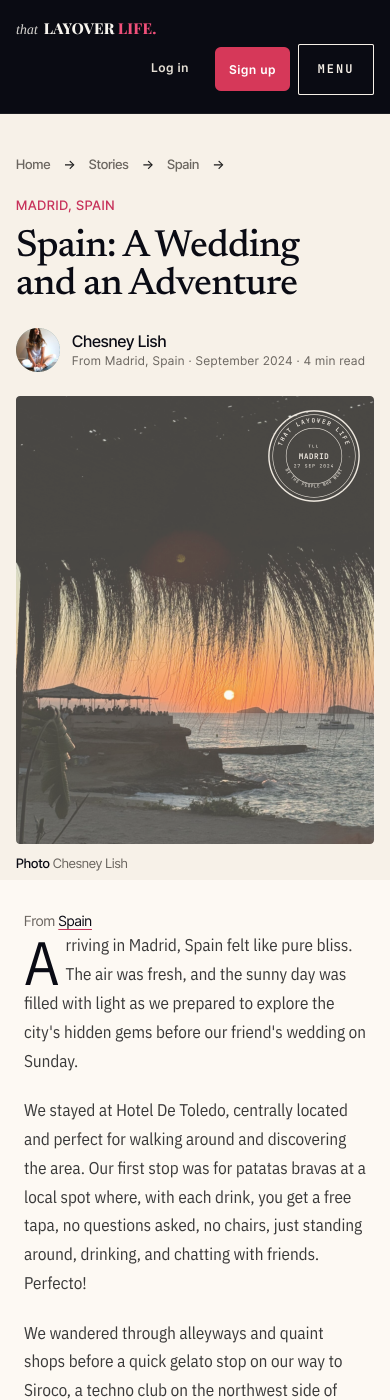
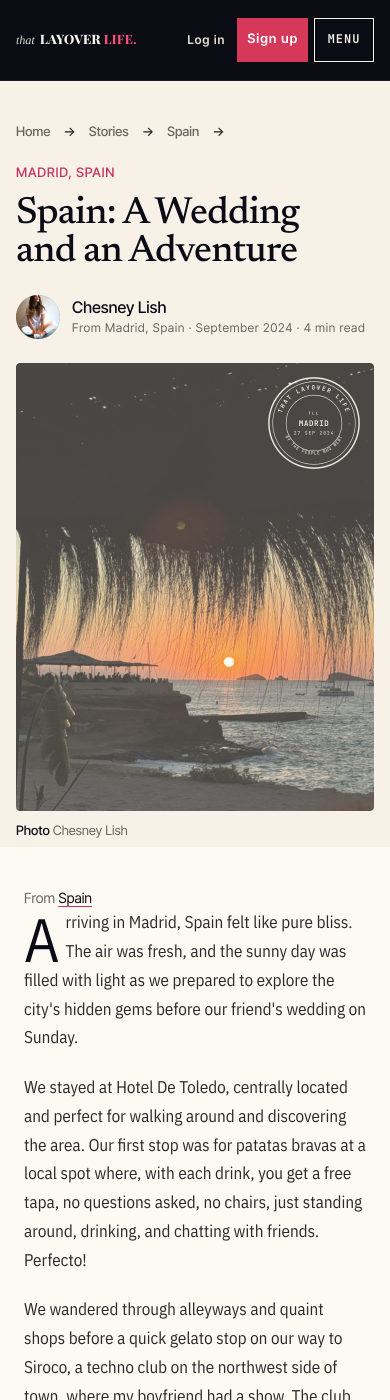
Site layers v5: v4 plus the magazine story layer, guarded to /stories/{slug} (font link in the head, style at the end of the body); tested on the stand-in as a header script, axe clean at 390 and 1280
Claude-Session: https://claude.ai/code/session_01GTTttGvX2VTwovAB2g1cLf

Changed region(s): [[0.0, 0.0, 1.0, 1.0]]

diff --git a/src/site-layers/tll-site-layers-v5.js b/src/site-layers/tll-site-layers-v5.js
@@ -1,0 +1,129 @@
+/* tll-site-layers-v5: one site script, so the site stays within Webflow's 15-script limit. Built by src/site-layers/build-site-layers-v5.py from:
+   style  src/site-layers/tll-nav-phone-v1.html (phone header)
+   style  src/site-layers/tll-contrast-v1.html (contrast)
+   style  src/site-layers/tll-note-phone-v1.html (round note button on phones)
+   style  src/site-layers/tll-photos-tap-v1.html (/share-photos drop zone tap on iPhones)
+   style  src/site-layers/tll-home-coords-v1.html (home photo coordinates inside the screen on phones)
+   style  src/site-layers/tll-footer-wordmark-v1.html (footer wordmark matches the header)
+   style  src/site-layers/tll-tap-colors-v1.html (/account Stories tab: ink text and a rose underline on hover and tap, no rose or teal text)
+   script src/components/member-bar/tll-account-hash-tabs-v1.js (member bar SETTINGS and CONTRIBUTIONS open their /account tab)
+   script src/site-layers/tll-note-typing-v1.js (note button steps aside while typing)
+   script src/components/edit-profile-fixes/tll-ep-country-v1.js (/edit-profile country field reads "Portland, Oregon, USA"; pen name note copy)
+   script src/site-layers/tll-footer-wordmark-v1.js (footer wordmark text)
+   story  src/design/magazine-2026-10/story-build/tll-mag-story-v1.html (the magazine story page: Newsreader, the byline in the head, the stamp on the photo; /stories/{slug} only)
+   No data-ms-* element is touched. */
+(function(){var L=[["tll-nav-phone-v1", "/* 26 Oct 2026: one button shape in the header on phones (Nancy's 23 Oct critique, point 1; prototype 3.4 header).\n   Square corners and one 44px height for Sign up, the account button and MENU, and a single row from 360px up (320px phones wrap to two tidy rows).\n   Only the links are restyled. No data-ms-* element is touched (the round avatar letter stays as Memberstack sets it). */\n@media (max-width:767px){\nbody .tll-nav-v1 .tll-nav-main{padding:6px 0 !important}\nbody .tll-nav-v1 .tll-nav-inner{align-items:center !important;column-gap:8px !important}\nbody .tll-nav-v1 .tll-nav-logo{flex:0 1 auto;min-width:0}\nbody .tll-nav-v1 .tll-nav-cta-row{margin-left:auto !important;gap:6px !important;align-items:center !important}\nbody .tll-nav-v1 .tll-nav-signin{min-height:44px !important;display:inline-flex !important;align-items:center !important;padding:0 4px !important;margin-right:-8px !important}\nbody .tll-nav-v1 .tll-nav-signup,body .tll-nav-v1 .tll-nav-account-link,body .tll-nav-v1 .tllmm-btn{box-sizing:border-box !important;height:44px !important;min-height:44px !important;border-radius:0 !important;display:inline-flex !important;align-items:center !important;justify-content:center !important}\nbody .tll-nav-v1 .tll-nav-signup{padding:0 14px !important;font-size:13px !important}\nbody .tll-nav-v1 .tll-nav-account-link{padding:0 12px 0 8px !important;border:1.5px solid #F7F1E8 !important;gap:8px !important}\nbody .tll-nav-v1 .tllmm-btn{padding:0 12px !important;min-width:68px !important;border:1.5px solid #F7F1E8 !important;font-size:12px !important;letter-spacing:2px !important}\n}\n@media (max-width:399px){\nbody .tll-nav-v1 .tll-nav-logo{zoom:.86}\nbody .tll-nav-v1 .tll-nav-signup{padding:0 10px !important}\nbody .tll-nav-v1 .tllmm-btn{padding:0 8px !important;min-width:60px !important;letter-spacing:1px !important}\n}\n"], ["tll-contrast-v1", "/* 26 Oct 2026: three text-contrast failures found by an axe check (WCAG AA needs 4.5:1 for small text).\n   1. Header \"Sign up\" and \"Share your story\": cream or white on #F0507A (3.07 and 3.42). Now white on #D63859 (4.6), the\n      look most pages already had; only the home page on desktop used the lighter rose.\n   2. /stories \"Share your story\" button (.tll-cta-rose): cream on teal #00A9A4 (2.59). Now white on #D63859 (4.6).\n   3. Rose words on light backgrounds (.tll-text-rose, #F0507A on cream, 3.07). Now #C8325B (4.64), the site rule for rose\n      text on light. Rose on dark sections keeps the bright #F0507A. Links only; no data-ms-* element is touched. */\nbody .tll-nav-v1 a.tll-nav-signup,body .tll-nav-v1 a.tll-nav-pen-cta{background-color:#D63859 !important;color:#FFFFFF !important}\nbody .tll-nav-v1 a.tll-nav-signup:hover,body .tll-nav-v1 a.tll-nav-pen-cta:hover{background-color:#C8325B !important;color:#FFFFFF !important}\nbody a.tll-cta-rose{background-color:#D63859 !important;color:#FFFFFF !important}\nbody a.tll-cta-rose:hover{background-color:#C8325B !important}\nbody .tll-text-rose{color:#C8325B}\nbody :is(.tll-section-dark,.tll-nav-v1,footer,.tll-footer-v1,.tll-story-hero,.tlldx-hero,.tllpx-hero,.tllec-hero,.tll-support-hero,.tll-auth-section,[data-h3-hero]) .tll-text-rose{color:#F0507A}\n"], ["tll-note-phone-v1", "/* 26 Oct 2026: the floating \"Tell the editor\" pill covered page content on phones (the /account tab strip, the Languages\n   field on /edit-profile). Prototype 3.4 already set the answer: under 960px the pill is a 44px round button with the dot\n   only (the words stay for screen readers). It also steps aside while a form field outside the note has focus. */\n@media (max-width:959px){\nbody #tll-note .tll-note-pill{font-size:0 !important;gap:0 !important;padding:0 !important;width:44px !important;height:44px !important;min-height:44px !important;justify-content:center !important;letter-spacing:0 !important}\nbody #tll-note .tll-note-pill::before{width:10px !important;height:10px !important}\n}\nhtml.tll-typing #tll-note:not([data-open=\"true\"]){display:none !important}\n"], ["tll-photos-tap-v1", "/* 26 Oct 2026, Nancy on an iPhone: \"Tap to add photo doesn't work\" on /share-photos. The file input sat hidden inside the drop\n   zone (1px, clipped, pointer-events none) and relied on the label passing the tap on, which iPhone browsers do not always do.\n   Now the input itself covers the whole drop zone, fully transparent, so a tap lands on the real file input on every phone.\n   Drag and drop and the keyboard still work; the focus ring shows on the drop zone. */\nbody [data-tll-form=share-photos] fieldset.tll-pen-fieldset label.tll-photos-drop{position:relative !important}\nbody [data-tll-form=share-photos] fieldset.tll-pen-fieldset label.tll-photos-drop input.tll-photos-drop-input{position:absolute !important;inset:0 !important;width:100% !important;height:100% !important;min-height:0 !important;margin:0 !important;padding:0 !important;border:0 !important;opacity:0 !important;clip-path:none !important;overflow:hidden !important;cursor:pointer !important;pointer-events:auto !important;z-index:2 !important;font-size:16px !important;display:block !important}\nbody [data-tll-form=share-photos] label.tll-photos-drop:has(> input.tll-photos-drop-input:focus-visible){outline:3px solid #F0507A;outline-offset:2px}\n"], ["tll-home-coords-v1", "/* 26 Oct 2026, Nancy: the coordinates on the home photo were half off the screen on her phone. The 20 Oct coordinates embed\n   (h3-hero-coords-v3) sets them to position:static under 900px; the phone hero layer moves them top-right but never reset that,\n   so they sat flush against the right edge and the last letters were cut. Top-right, 16px in from the edges, on phones. */\n@media (max-width:767px){\nbody:not(.tll-none) [data-h3-hero] .h3-hero-coords{position:absolute !important;margin:0 !important;top:16px !important;right:16px !important;left:auto !important;max-width:calc(100% - 32px) !important;white-space:nowrap !important;overflow:visible !important;text-overflow:clip !important;text-align:right !important}\n}\n"], ["tll-footer-wordmark-v1", "/* 26 Oct 2026, Nancy: \"What's going on with the logo\" (site footer). The footer link was plain text \"that LAYOVER LIFE\" in\n   generic classes: a big sans \"that\", a small rose \"LAYOVER LIFE\". Now it is the header wordmark at footer size:\n   italic serif \"that\", Playfair \"LAYOVER\", rose \"LIFE.\". The words are rebuilt by tll-footer-wordmark-v1.js. */\nbody footer a.tll-fwm{display:inline-flex !important;align-items:baseline !important;gap:6px !important;white-space:nowrap !important;text-decoration:none !important;color:#F8F2E6 !important;font-size:inherit !important;line-height:1 !important;margin:0 0 4px !important}\nbody footer a.tll-fwm .tll-fwm-that{font:italic 400 18px/1 'DM Serif Display','Playfair Display',Georgia,serif !important;opacity:.85;color:#F8F2E6 !important;letter-spacing:0 !important;text-transform:none !important}\nbody footer a.tll-fwm .tll-fwm-block{font:800 24px/1 'Playfair Display',Georgia,serif !important;letter-spacing:.01em !important;color:#F8F2E6 !important;text-transform:uppercase !important}\nbody footer a.tll-fwm .tll-fwm-life{color:#F0507A !important;font:inherit !important}\n"], ["tll-tap-colors-v1", "/* 26 Oct 2026, Nancy on the /account Stories tab: \"Not a fan of the light blue on hover click.\"\n   The row title's hover was bright rose (#F0507A) on cream, which fails contrast (3.07:1). The site's contrast layer then recolors it\n   from its palette, and the result on an iPhone long-press was a pale teal. The magazine rule instead: text stays ink, the underline\n   goes rose (#C8325B on light). Same for the Edit and Share links in that tab. No element or script changes; CSS only, after the\n   script's own styles by specificity. */\nbody .tms-row .tms-t:hover,body .tms-row .tms-t:focus-visible,body .tms-row:hover .tms-t,body .tms-row:active .tms-t{color:#0A0B14 !important;text-decoration:underline;text-decoration-color:#C8325B;text-decoration-thickness:2px;text-underline-offset:4px}\nbody .tms-act:hover,body .tms-act:focus-visible{color:#0A0B14 !important;text-decoration-color:#C8325B;text-decoration-thickness:2px;text-underline-offset:3px}\nbody .tms-act:focus-visible{outline-color:#C8325B}\nbody .tms-row:hover,body .tms-row:active{border-color:#0A0B14 !important}\n@media(hover:none){body .tms-row:hover .tms-t,body .tms-row .tms-t:hover{text-decoration-color:transparent}body .tms-row:active .tms-t{text-decoration-color:#C8325B}}\n"]];var h=document.head||document.documentElement;for(var i=0;i<L.length;i++){if(document.getElementById(L[i][0]))continue;var s=document.createElement('style');s.id=L[i][0];s.textContent=L[i][1];h.appendChild(s);}})();
+/* tll-account-hash-tabs-v1 (26 Oct 2026). On /account, a tap on a same-page link such as the member bar's SETTINGS
+   (/account#settings) or CONTRIBUTIONS (/account#stories) opens that account tab.
+   Why: Webflow's smooth scroll catches same-page # links, scrolls to the target and changes the address with pushState,
+   which fires no hashchange, so the account tabs never heard the tap and the target section stayed hidden.
+   This listener runs first (capture phase) and only acts when a matching account tab button exists (#a3-tab-<name>). */
+(function(){
+  if(window.__tllHashTabs) return; window.__tllHashTabs=1;
+  function same(a){ return a.host===location.host && a.pathname.replace(/\/$/,'')===location.pathname.replace(/\/$/,''); }
+  document.addEventListener('click',function(e){
+    if(e.defaultPrevented||e.button>0||e.metaKey||e.ctrlKey||e.shiftKey||e.altKey) return;
+    var a=e.target&&e.target.closest&&e.target.closest('a[href*="#"]'); if(!a||!a.hash||!same(a)) return;
+    var tab=document.getElementById('a3-tab-'+decodeURIComponent(a.hash.slice(1))); if(!tab) return;
+    e.preventDefault(); e.stopPropagation();
+    tab.click();
+  },true);
+})();
+
+/* tll-note-typing-v1 (26 Oct 2026): while a form field outside the "Tell the editor" note has focus, html gets
+   .tll-typing and the pill steps aside, so it never sits on a field above the phone keyboard. */
+(function(){
+  if(window.__tllTyping) return; window.__tllTyping=1;
+  var H=document.documentElement, F='input:not([type=hidden]):not([type=submit]):not([type=button]):not([type=checkbox]):not([type=radio]),textarea,select,[contenteditable="true"]';
+  function on(t){ return t&&t.matches&&t.matches(F)&&!(t.closest&&t.closest('#tll-note')); }
+  document.addEventListener('focusin',function(e){ if(on(e.target)) H.classList.add('tll-typing'); });
+  document.addEventListener('focusout',function(){ setTimeout(function(){ if(!on(document.activeElement)) H.classList.remove('tll-typing'); },0); });
+})();
+
+/* tll-ep-country-v1 (26 Oct 2026). Edit profile, "From, and has lived in": accept the way people write places.
+   Nancy typed "Portland, Oregon, USA" and got "No country by that name". The matcher took only an exact country name,
+   a two letter code or the start of a name. Now it reads each comma part from the end, knows common short forms
+   (USA, UK, England, Holland, UAE ...) and US state names, then falls back to the old matcher. Exact country names win
+   first, so "Georgia" stays the country. Same stored value as before: two letter codes in from-and-lived-in. */
+(function(){
+  if(!/^\/edit-profile/.test(location.pathname)) return;
+  var ALIAS={'usa':'us','u.s.a.':'us','u.s.a':'us','u.s.':'us','u.s':'us','america':'us','united states of america':'us','the united states':'us',
+    'uk':'gb','u.k.':'gb','u.k':'gb','britain':'gb','great britain':'gb','england':'gb','scotland':'gb','wales':'gb','northern ireland':'gb','the united kingdom':'gb',
+    'holland':'nl','the netherlands':'nl','uae':'ae','u.a.e.':'ae','emirates':'ae','the emirates':'ae','korea':'kr','republic of korea':'kr',
+    'czech republic':'cz','burma':'mm','swaziland':'sz','macedonia':'mk','east timor':'tl','cabo verde':'cv',"cote d'ivoire":'ci',"côte d'ivoire":'ci',
+    'vatican':'va','holy see':'va','turkiye':'tr','türkiye':'tr','russian federation':'ru','drc':'cd','democratic republic of the congo':'cd','republic of ireland':'ie'};
+  var ST={}; "alabama|alaska|arizona|arkansas|california|colorado|connecticut|delaware|florida|hawaii|idaho|illinois|indiana|iowa|kansas|kentucky|louisiana|maine|maryland|massachusetts|michigan|minnesota|mississippi|missouri|montana|nebraska|nevada|new hampshire|new jersey|new mexico|new york|north carolina|north dakota|ohio|oklahoma|oregon|pennsylvania|rhode island|south carolina|south dakota|tennessee|texas|utah|vermont|virginia|washington|west virginia|wisconsin|wyoming|washington dc|washington d.c.|district of columbia|puerto rico".split('|').forEach(function(x){ ST[x]=1; }); /* US states (Georgia is left to the country) */
+  function norm(s){ return String(s||'').trim().toLowerCase().replace(/\s+/g,' '); }
+  function patch(){
+    var E=window.TLLEP; if(!E||!E.ccode||E.ccode.__tll||!E.C) return false;
+    var base=E.ccode;
+    function exact(p){ for(var i=0;i<E.C.length;i++){ if(E.C[i].c===p||E.C[i].n.toLowerCase()===p) return E.C[i].c; } return ''; }
+    var f=function(q){
+      var s=norm(q); if(!s) return '';
+      var parts=s.split(/\s*[,;\/]\s*|\s+-\s+/).filter(Boolean);
+      for(var i=parts.length-1;i>=0;i--){ var p=parts[i]; var c=exact(p)||ALIAS[p]||(ST[p]?'us':''); if(c) return c; }
+      return base(q) || (parts.length>1 ? base(parts[parts.length-1]) : '');
+    };
+    f.__tll=1; E.ccode=f; return true;
+  }
+  if(!patch()){ var n=0, iv=setInterval(function(){ if(patch()||++n>40) clearInterval(iv); },250); document.addEventListener('DOMContentLoaded',patch); }
+  /* Copy on the same page: the pen name note used a banned phrase; the country hint now says a place works. */
+  function copy(){
+    var pen=document.querySelector('[data-ep-penwrap] .ep-note');
+    if(pen&&/real name stays on file/i.test(pen.textContent)) pen.textContent='Only the editor sees your full name. Readers see your pen name, and every byline is still a person.';
+    var fn=document.querySelector('[data-ep-flagnote]');
+    if(fn&&!fn.hasAttribute('data-hold')&&/^Type a country and press Enter/.test(fn.textContent)) fn.textContent='Type a country, or a place with its country, and press Enter. Up to five.';
+  }
+  if(document.readyState!=='loading') copy(); else document.addEventListener('DOMContentLoaded',copy);
+})();
+
+/* tll-footer-wordmark-v1 (26 Oct 2026): the site footer's home link "that LAYOVER LIFE" becomes the header wordmark
+   (that + LAYOVER + LIFE.). Text only; the link, its href and its place stay. Styles: tll-footer-wordmark-v1.html. */
+(function(){
+  function run(){
+    [].forEach.call(document.querySelectorAll('footer a[href="/"]'),function(a){
+      if(a.classList.contains('tll-fwm')) return;
+      var t=a.textContent.replace(/\s+/g,' ').trim(); if(!/^that ?layover life\.?$/i.test(t)) return;
+      a.classList.add('tll-fwm'); a.setAttribute('aria-label','That Layover Life, home');
+      a.innerHTML='<span class="tll-fwm-that">that</span><span class="tll-fwm-block">LAYOVER <span class="tll-fwm-life">LIFE.</span></span>';
+    });
+  }
+  if(document.readyState!=='loading') run(); else document.addEventListener('DOMContentLoaded',run);
+})();
+
+(function(){if(!/^\/stories\/[^/]+\/?$/.test(location.pathname))return;if(document.getElementById('tll-mag-story-v1'))return;
+var f=document.createElement('link');f.rel='stylesheet';f.href="https://fonts.googleapis.com/css2?family=Newsreader:ital,opsz,wght@0,6..72,400..600;1,6..72,400..600&family=Inter+Tight:wght@400;500;600&display=swap";(document.head||document.documentElement).appendChild(f);
+function place(){var s=document.createElement('style');s.id='tll-mag-story-v1';s.textContent="/* The magazine story page, layer v1 (26 Oct 2026). handoff/CREATIVE-DIRECTION-2026-10-26.md, direction A with the stamp, Newsreader.\n   Loads after tll-v9-j13-v1 (head) and before tll-st3-story-v1 (footer) and overrides both by specificity and !important.\n   Restyles only: no element is removed, no binding changes, no data-* hook moves except the two the script makes (the hero caption\n   under the photo and the author row into the head). Rose means \"you can press this\". One gutter, one radius, one measure. */\n:root{--st3-f-head:'Newsreader',Georgia,serif;--st3-f-body:'Inter Tight',system-ui,sans-serif;\n  --mg-ink:#0A0B14;--mg-cream:#F7F1E8;--mg-paper:#FDF9F3;--mg-line:#D8D0C4;--mg-text:#2a2a2a;--mg-muted:#6B6660;--mg-rose:#C8325B;--mg-teal:#067A79;\n  --mg-head:'Newsreader',Georgia,serif;--mg-text-f:'Inter Tight',system-ui,sans-serif;--mg-m:16px;--mg-r:4px}\n@media(min-width:900px){:root{--mg-m:40px}}\n.tll-story-article{font-family:var(--mg-text-f)}\n\n/* the head: words first, then the photo, then its caption */\n.tll-story-hero{display:flex !important;flex-direction:column !important;align-items:stretch !important;min-height:0 !important;background:var(--mg-cream) !important;padding:0 0 8px !important;overflow:visible !important}\n.tll-story-hero-overlay{order:-1;position:static !important;min-height:0 !important;background:none !important;display:block !important;padding:0 !important}\n.tll-story-hero-content{display:grid;grid-template-columns:minmax(0,1fr);row-gap:0;max-width:1280px !important;padding:28px var(--mg-m) 24px !important}\n.tll-story-hero-content>*{grid-column:1;min-width:0}\n.tll-mg-fig{position:relative;width:calc(100% - 2*var(--mg-m));max-width:1200px;margin:0 auto}\n.tll-story-hero-img{position:relative !important;inset:auto !important;display:block;width:100% !important;height:auto !important;aspect-ratio:4/5;object-fit:cover !important;margin:0 !important;border-radius:var(--mg-r);transform:none !important}\n.tll-mg-cap{display:flex;justify-content:space-between;gap:16px;margin:10px 0 0;font:400 13px/1.4 var(--mg-text-f);color:var(--mg-muted)}\n.tll-mg-cap b{font-weight:500;color:var(--mg-ink)}\n.tll-mg-cap:empty{display:none}\n.tll-story-hero [data-tll-breadcrumb]{display:flex;flex-wrap:wrap;align-items:center;font:500 13px/1.4 var(--mg-text-f) !important;color:var(--mg-muted) !important;margin:0 0 10px !important;letter-spacing:0 !important;text-transform:none !important}\n.tll-story-hero [data-tll-breadcrumb] a{display:inline-flex;align-items:center;min-height:44px;color:var(--mg-muted) !important;text-decoration:none}\n.tll-story-hero [data-tll-breadcrumb] span{color:var(--mg-line) !important;margin:0 6px}\n.tll-story-hero .tll-story-meta-row{display:flex !important;flex-wrap:wrap;gap:0 8px;margin:0 !important;background:none !important;padding:0 !important;border-radius:0 !important;backdrop-filter:none !important}\n.tll-story-hero .tll-story-meta-row .tll-eyebrow-teal{font:500 13px/1.4 var(--mg-text-f) !important;letter-spacing:.06em !important;text-transform:uppercase !important;color:var(--mg-rose) !important;background:none !important;border:0 !important;padding:0 !important;margin:0 !important;border-radius:0 !important}\n.tll-story-hero .tll-story-meta-row .tll-story-meta-divider:has(+ .w-dyn-bind-empty),.tll-story-hero .tll-story-meta-row .tll-story-meta-divider:has(+ .tll-story-reading-time){display:none !important}\n.tll-story-hero .tll-story-meta-row .tll-eyebrow-teal img{display:none !important}\n.tll-story-hero .tll-story-meta-divider{color:var(--mg-rose) !important;font-size:13px}\n.tll-story-hero .tll-story-reading-time{display:none !important}\nh1.tll-story-title{font-family:var(--mg-head) !important;font-weight:500 !important;font-size:clamp(38px,9.5vw,52px) !important;line-height:1 !important;letter-spacing:-.02em !important;color:var(--mg-ink) !important;text-shadow:none !important;margin:14px 0 0 !important;text-wrap:balance;max-width:none !important}\n.tll-story-excerpt{font-family:var(--mg-head) !important;font-weight:400 !important;font-size:21px !important;line-height:1.4 !important;color:var(--mg-text) !important;max-width:44ch !important;margin:18px 0 0 !important;font-variation-settings:\"opsz\" 24}\n.tll-story-hero .tll-story-author-top{display:none !important}\n.tll-story-hero [data-tll-hero-caption]{display:none !important}\n/* the byline, moved into the head by the script */\n.tll-story-hero-content .st3-author{margin:24px 0 0 !important;padding:0 !important;border:0 !important}\n.tll-story-hero-content .st3-author-avatar{width:44px;height:44px;border:0}\n.tll-story-hero-content .st3-author-name{font:500 16px/1.3 var(--mg-text-f);color:var(--mg-ink)}\n.tll-story-hero-content .st3-author-name::after{content:none}\n.tll-story-hero-content .st3-author-filed{font:400 14px/1.4 var(--mg-text-f);letter-spacing:0;text-transform:none;color:var(--mg-muted);margin-top:2px}\n.tll-story-hero-content .st3-author-filed [data-st3-loc]{text-transform:capitalize}\n.tll-mg-stamp{position:absolute;right:12px;top:12px;width:96px;color:var(--mg-cream);opacity:.95}\n.tll-mg-stamp svg{display:block;width:100%;height:auto}\n@media(min-width:900px){\n  .tll-story-hero-content{padding:48px var(--mg-m) 32px !important}\n  .tll-mg-stamp{width:150px;right:24px;top:24px}\n  h1.tll-story-title{font-size:clamp(52px,5.4vw,80px) !important;line-height:.98 !important;max-width:16ch !important}\n  .tll-story-excerpt{font-size:24px !important}\n  .tll-story-hero-img{aspect-ratio:3/2}\n}\n\n/* the reading column */\n.tll-story-body-section{padding-top:40px !important}\n.tll-story-body>.st3-from{font:400 14px/1.5 var(--mg-text-f);color:var(--mg-muted)}\n.tll-story-body>.st3-from a{color:var(--mg-ink);text-decoration:underline;text-decoration-color:var(--mg-rose);text-underline-offset:3px}\n.tll-story-body>.st3-lede{display:none !important}\n.tll-story-body>.w-richtext.tll-body{font-family:var(--mg-head) !important;font-size:19px !important;line-height:1.6 !important;color:var(--mg-text) !important;font-variation-settings:\"opsz\" 16}\n.tll-story-body>.w-richtext.tll-body p{margin:0 0 1.2em}\n.tll-story-body>.w-richtext.tll-body>p:first-child::first-letter{font-size:3.6em;line-height:.85;float:left;padding:.08em .1em 0 0;color:var(--mg-ink);font-weight:500}\n.tll-story-body>.w-richtext.tll-body h2,.tll-story-body>.w-richtext.tll-body h3{font-family:var(--mg-head);font-weight:500;font-size:28px;line-height:1.1;letter-spacing:-.015em;margin:1.4em 0 .5em;color:var(--mg-ink)}\n.tll-story-body>.w-richtext.tll-body h3{font-size:24px}\n.tll-story-body>.w-richtext.tll-body a{color:var(--mg-ink);text-decoration:underline;text-decoration-color:var(--mg-rose);text-decoration-thickness:2px;text-underline-offset:4px}\n.tll-story-body>.tll-story-pullquote{background:none !important;border:0 !important;border-left:3px solid var(--mg-rose) !important;border-radius:0 !important;padding:0 0 0 20px !important;margin:8px 0 32px !important;font-family:var(--mg-head) !important;font-style:normal !important;font-weight:400 !important;font-size:26px !important;line-height:1.25 !important;letter-spacing:-.01em;color:var(--mg-ink) !important}\n.tll-story-body>.tll-aeo-box{background:var(--mg-paper) !important;border:1px solid var(--mg-line) !important;border-radius:var(--mg-r) !important;padding:24px 20px !important}\n.tll-story-body>.tll-aeo-box .tll-aeo-eyebrow{font:500 24px/1.1 var(--mg-head) !important;letter-spacing:-.015em !important;text-transform:none !important;color:var(--mg-ink) !important;margin:0 0 6px !important}\n.tll-story-body>.tll-aeo-box .w-richtext{font-family:var(--mg-text-f) !important;font-size:16px !important;line-height:1.55 !important;color:var(--mg-text) !important}\n.tll-story-body>.tll-aeo-box .w-richtext p{margin:12px 0 0}\n.tll-story-body>.tll-aeo-box .w-richtext p strong{display:block;font-family:var(--mg-head);font-weight:500;font-size:19px;color:var(--mg-ink);letter-spacing:-.01em;margin-top:8px}\n[data-tll-links-card]>:first-child{font:500 12px/1.4 var(--mg-text-f) !important;letter-spacing:.06em !important;text-transform:uppercase !important;color:var(--mg-muted) !important}\n[data-tll-links-card] .w-richtext a{text-decoration-color:var(--mg-rose) !important}\n.tll-story-share-row .tll-story-share-label{font:500 12px/1.4 var(--mg-text-f) !important;letter-spacing:.06em;color:var(--mg-muted) !important}\n.tll-story-share-row .tll-story-share-link{font:500 14px/1 var(--mg-text-f) !important;border-radius:var(--mg-r) !important}\n\n/* after the story: same type, rose for taps */\n.tll-eyebrow-teal,.tll-eyebrow-rose,.tll-aeo-eyebrow,[data-tll-places] [data-tll-places-label],[data-tll-ledger] .tll-sl-title,[data-tll-ledger] .tll-ledger-k,.st3-tw-h,.st3-cc-badge,.st3-aff-k,.st3-trip-k,.st3-trip-by,.st3-author-filed,[data-tll-places] [data-tll-places-note]{font-family:var(--mg-text-f) !important;letter-spacing:.06em !important}\n.tll-story-aftermatter .tll-related-header .tll-eyebrow-teal,.tll-story-feedback .tll-eyebrow-teal{font:500 12px/1.4 var(--mg-text-f) !important;letter-spacing:.06em !important;color:var(--mg-muted) !important}\n.tll-story-aftermatter .tll-related-header h2{font-family:var(--mg-head) !important;font-weight:500 !important;letter-spacing:-.02em;font-size:clamp(30px,4vw,44px) !important;line-height:1.05 !important}\n.tll-story-aftermatter .tll-related-header h2 .tll-text-rose{color:inherit !important;font-style:italic}\n.tll-related-card{text-decoration:none !important;color:var(--mg-ink) !important}\n.tll-related-img-wrap{border-radius:var(--mg-r);overflow:hidden}\n.tll-related-loc{font:500 12px/1.4 var(--mg-text-f) !important;letter-spacing:.06em !important;text-transform:uppercase !important;color:var(--mg-muted) !important;margin-top:12px}\n.tll-related-headline{font-family:var(--mg-head) !important;font-weight:500 !important;font-size:22px !important;line-height:1.12 !important;letter-spacing:-.015em !important;color:var(--mg-ink) !important;margin:6px 0 0 !important}\n.tll-related-meta{font:400 13px/1.4 var(--mg-text-f) !important;color:var(--mg-muted) !important}\n.st3-cc-name{font-weight:500 !important;letter-spacing:-.02em !important}\n.st3-cc-avatar,.st3-author-avatar{border-color:var(--mg-line) !important}\n.st3-cc-link,.st3-author-name{color:var(--mg-ink) !important;text-decoration-color:var(--mg-rose) !important}\n[data-tll-story-cta]>div:first-child>div:first-child{font-weight:500 !important;letter-spacing:-.015em !important}\n.st3-trip-h,[data-tll-ledger] .tll-sl-title{font-weight:500 !important}\n[data-tll-ledger] .tll-ledger-note a,.tll-feedback-link{text-decoration-color:var(--mg-rose) !important}\n.tll-story-feedback p{font-family:var(--mg-text-f)}\n.tll-story-article a:focus-visible,.tll-story-article button:focus-visible{outline-color:var(--mg-rose) !important}\n";document.body.appendChild(s);}
+if(document.readyState==='loading')document.addEventListener('DOMContentLoaded',place);else place();
+/* Three small moves the CSS cannot make: the hero caption goes under the photo with the writer's credit, the author row (the bound
+   byline) moves into the head with the reading time, and the stamp is drawn from the byline location, the date and the pillar.
+   Nothing is deleted; the caption element is hidden, not removed. Runs once. */
+(function(){
+var SVG='<svg viewBox="0 0 200 200" aria-hidden="true" focusable="false"><defs><filter id="tll-mg-ink" x="-6%" y="-6%" width="112%" height="112%"><feTurbulence type="fractalNoise" baseFrequency=".9" numOctaves="2" seed="7" result="n"/><feDisplacementMap in="SourceGraphic" in2="n" scale="1.5" xChannelSelector="R" yChannelSelector="G"/></filter><path id="tll-mg-top" d="M30,100 A70,70 0 1,1 170,100"/><path id="tll-mg-bottom" d="M34,100 A66,66 0 0,0 166,100"/></defs><g filter="url(#tll-mg-ink)"><g fill="none" stroke="currentColor"><circle cx="100" cy="100" r="94" stroke-width="3"/><circle cx="100" cy="100" r="86" stroke-width="1.2"/><circle cx="100" cy="100" r="58" stroke-width="1.2"/></g><g fill="currentColor" font-family="\'JetBrains Mono\',ui-monospace,monospace" text-anchor="middle"><text font-size="12.5" font-weight="600" letter-spacing="3"><textPath href="#tll-mg-top" startOffset="50%">THAT LAYOVER LIFE</textPath></text><text font-size="9" letter-spacing="1.4"><textPath href="#tll-mg-bottom" startOffset="50%">{A}</textPath></text><text x="100" y="82" font-size="8" letter-spacing="3" font-weight="600">TLL</text><text x="100" y="106" font-size="{S}" font-weight="600" letter-spacing="1">{P}</text><text x="100" y="124" font-size="9.5" letter-spacing="2">{D}</text></g></g></svg>';
+function esc(s){return String(s).replace(/[&<>"]/g,function(c){return {'&':'&amp;','<':'&lt;','>':'&gt;','"':'&quot;'}[c];});}
+function txt(el){return el&&!el.classList.contains('w-dyn-bind-empty')?el.textContent.trim():'';}
+function run(){
+  var hero=document.querySelector('.tll-story-hero'),c=hero&&hero.querySelector('.tll-story-hero-content');
+  if(!c||c.dataset.tllMag)return;c.dataset.tllMag='1';
+  var img=hero.querySelector('.tll-story-hero-img'),cap=hero.querySelector('[data-tll-hero-caption]'),by=txt(document.querySelector('.st3-author-name'));
+  if(img){var f=document.createElement('div');f.className='tll-mg-cap';var ct=cap?txt(cap.querySelector('div')||cap):'';
+    if(ct){var s=document.createElement('span');s.textContent=ct;f.appendChild(s);}
+    if(by){var cr=document.createElement('span');var b=document.createElement('b');b.textContent='Photo';cr.appendChild(b);cr.appendChild(document.createTextNode(' '+by));f.appendChild(cr);}
+    var fig=document.createElement('figure');fig.className='tll-mg-fig';img.parentNode.insertBefore(fig,img);fig.appendChild(img);if(f.childNodes.length)fig.appendChild(f);}
+  var a=document.querySelector('.st3-author');
+  if(a){var mins=document.querySelector('.tll-story-reading-time'),m=txt(mins).match(/\d+/),w=a.querySelector('[data-st3-when]');
+    if(m&&w){var sp=document.createElement('span');sp.className='tll-mg-mins';sp.textContent=' · '+m[0]+' min read';w.insertAdjacentElement('afterend',sp);}
+    c.appendChild(a);}
+  var loc=txt(document.querySelector('[data-st3-loc]'))||txt(document.querySelector('.tll-story-meta-row .tll-eyebrow-teal'));
+  var place=(loc.split(',')[0]||'').trim().toUpperCase().slice(0,16);
+  var when=txt(document.querySelector('[data-st3-when]')),d=when.match(/(\d{1,2}) (\w{3})\w* (\d{4})/)||when.match(/(\w{3})\w* (\d{1,2}),? (\d{4})/);
+  var date=d?(d[0].match(/^\d/)?(('0'+d[1]).slice(-2)+' '+d[2].toUpperCase()+' '+d[3]):(('0'+d[2]).slice(-2)+' '+d[1].toUpperCase()+' '+d[3])):'';
+  var pills=document.querySelectorAll('.tll-story-meta-row .tll-eyebrow-teal'),pill=pills.length>1?txt(pills[1]).toUpperCase():'';
+  var arc=pill||'BY THE PEOPLE WHO WENT';
+  var le=document.querySelector('.st3-author-filed [data-st3-loc]');if(le&&le.textContent===le.textContent.toUpperCase())le.textContent=le.textContent.toLowerCase().replace(/(^|[\s-])([a-z])/g,function(m,a,b){return a+b.toUpperCase();});
+  if(place){var st=document.createElement('span');st.className='tll-mg-stamp';st.setAttribute('aria-hidden','true');
+    st.innerHTML=SVG.replace('{P}',esc(place)).replace('{S}',place.length>10?'12':'16').replace('{D}',esc(date)).replace('{A}',esc(arc));var fg=hero.querySelector('.tll-mg-fig');(fg||c).appendChild(st);}
+}
+if(document.readyState==='loading')document.addEventListener('DOMContentLoaded',run);else run();
+})();
+})();

diff --git a/src/site-layers/build-site-layers-v5.py b/src/site-layers/build-site-layers-v5.py
@@ -1,0 +1,34 @@
+"""Builds src/site-layers/tll-site-layers-v5.js from its parts. Run from the repo root: python3 src/site-layers/build-site-layers-v5.py
+v5 = v4 plus the magazine story layer (src/design/magazine-2026-10/story-build/tll-mag-story-v1.html), which runs only on /stories/{slug}:
+its font link goes in the head and its style goes at the END of the body once the DOM is parsed, so it sits after the template's own
+head and footer styles in the cascade and wins every tie."""
+import re, json
+STYLES = [('src/site-layers/tll-nav-phone-v1.html', 'tll-nav-phone-v1', 'phone header'),
+          ('src/site-layers/tll-contrast-v1.html', 'tll-contrast-v1', 'contrast'),
+          ('src/site-layers/tll-note-phone-v1.html', 'tll-note-phone-v1', 'round note button on phones'),
+          ('src/site-layers/tll-photos-tap-v1.html', 'tll-photos-tap-v1', '/share-photos drop zone tap on iPhones'),
+          ('src/site-layers/tll-home-coords-v1.html', 'tll-home-coords-v1', 'home photo coordinates inside the screen on phones'),
+          ('src/site-layers/tll-footer-wordmark-v1.html', 'tll-footer-wordmark-v1', 'footer wordmark matches the header'),
+          ('src/site-layers/tll-tap-colors-v1.html', 'tll-tap-colors-v1', '/account Stories tab: ink text and a rose underline on hover and tap, no rose or teal text')]
+SCRIPTS = [('src/components/member-bar/tll-account-hash-tabs-v1.js', 'member bar SETTINGS and CONTRIBUTIONS open their /account tab'),
+           ('src/site-layers/tll-note-typing-v1.js', 'note button steps aside while typing'),
+           ('src/components/edit-profile-fixes/tll-ep-country-v1.js', '/edit-profile country field reads "Portland, Oregon, USA"; pen name note copy'),
+           ('src/site-layers/tll-footer-wordmark-v1.js', 'footer wordmark text')]
+MAG = 'src/design/magazine-2026-10/story-build/tll-mag-story-v1.html'
+def css(f, i): return [i, re.search(r'<style id="%s">\n(.*)</style>' % i, open(f).read(), re.S).group(1)]
+mag = open(MAG).read()
+mag_css = re.search(r'<style id="tll-mag-story-v1">\n(.*?)</style>', mag, re.S).group(1)
+mag_js = re.search(r'<script id="tll-mag-story-js-v1">\n(.*?)</script>', mag, re.S).group(1)
+mag_font = re.search(r'<link rel="stylesheet" href="([^"]+)">', mag).group(1)
+head = "/* tll-site-layers-v5: one site script, so the site stays within Webflow's 15-script limit. Built by src/site-layers/build-site-layers-v5.py from:\n"
+head += ''.join('   style  %s (%s)\n' % (f, d) for f, _, d in STYLES) + ''.join('   script %s (%s)\n' % (f, d) for f, d in SCRIPTS)
+head += '   story  %s (the magazine story page: Newsreader, the byline in the head, the stamp on the photo; /stories/{slug} only)\n' % MAG
+head += '   No data-ms-* element is touched. */\n'
+loader = "(function(){var L=%s;var h=document.head||document.documentElement;for(var i=0;i<L.length;i++){if(document.getElementById(L[i][0]))continue;var s=document.createElement('style');s.id=L[i][0];s.textContent=L[i][1];h.appendChild(s);}})();\n" % json.dumps([css(f, i) for f, i, _ in STYLES])
+story = ("(function(){if(!/^\\/stories\\/[^/]+\\/?$/.test(location.pathname))return;if(document.getElementById('tll-mag-story-v1'))return;\n"
+         "var f=document.createElement('link');f.rel='stylesheet';f.href=%s;(document.head||document.documentElement).appendChild(f);\n"
+         "function place(){var s=document.createElement('style');s.id='tll-mag-story-v1';s.textContent=%s;document.body.appendChild(s);}\n"
+         "if(document.readyState==='loading')document.addEventListener('DOMContentLoaded',place);else place();\n"
+         "%s})();\n") % (json.dumps(mag_font), json.dumps(mag_css), mag_js)
+open('src/site-layers/tll-site-layers-v5.js', 'w').write(head + loader + '\n'.join(open(f).read() for f, _ in SCRIPTS) + '\n' + story)
+print('built', len(STYLES), 'styles', len(SCRIPTS), 'scripts + story layer', len(mag_css), 'css bytes')
